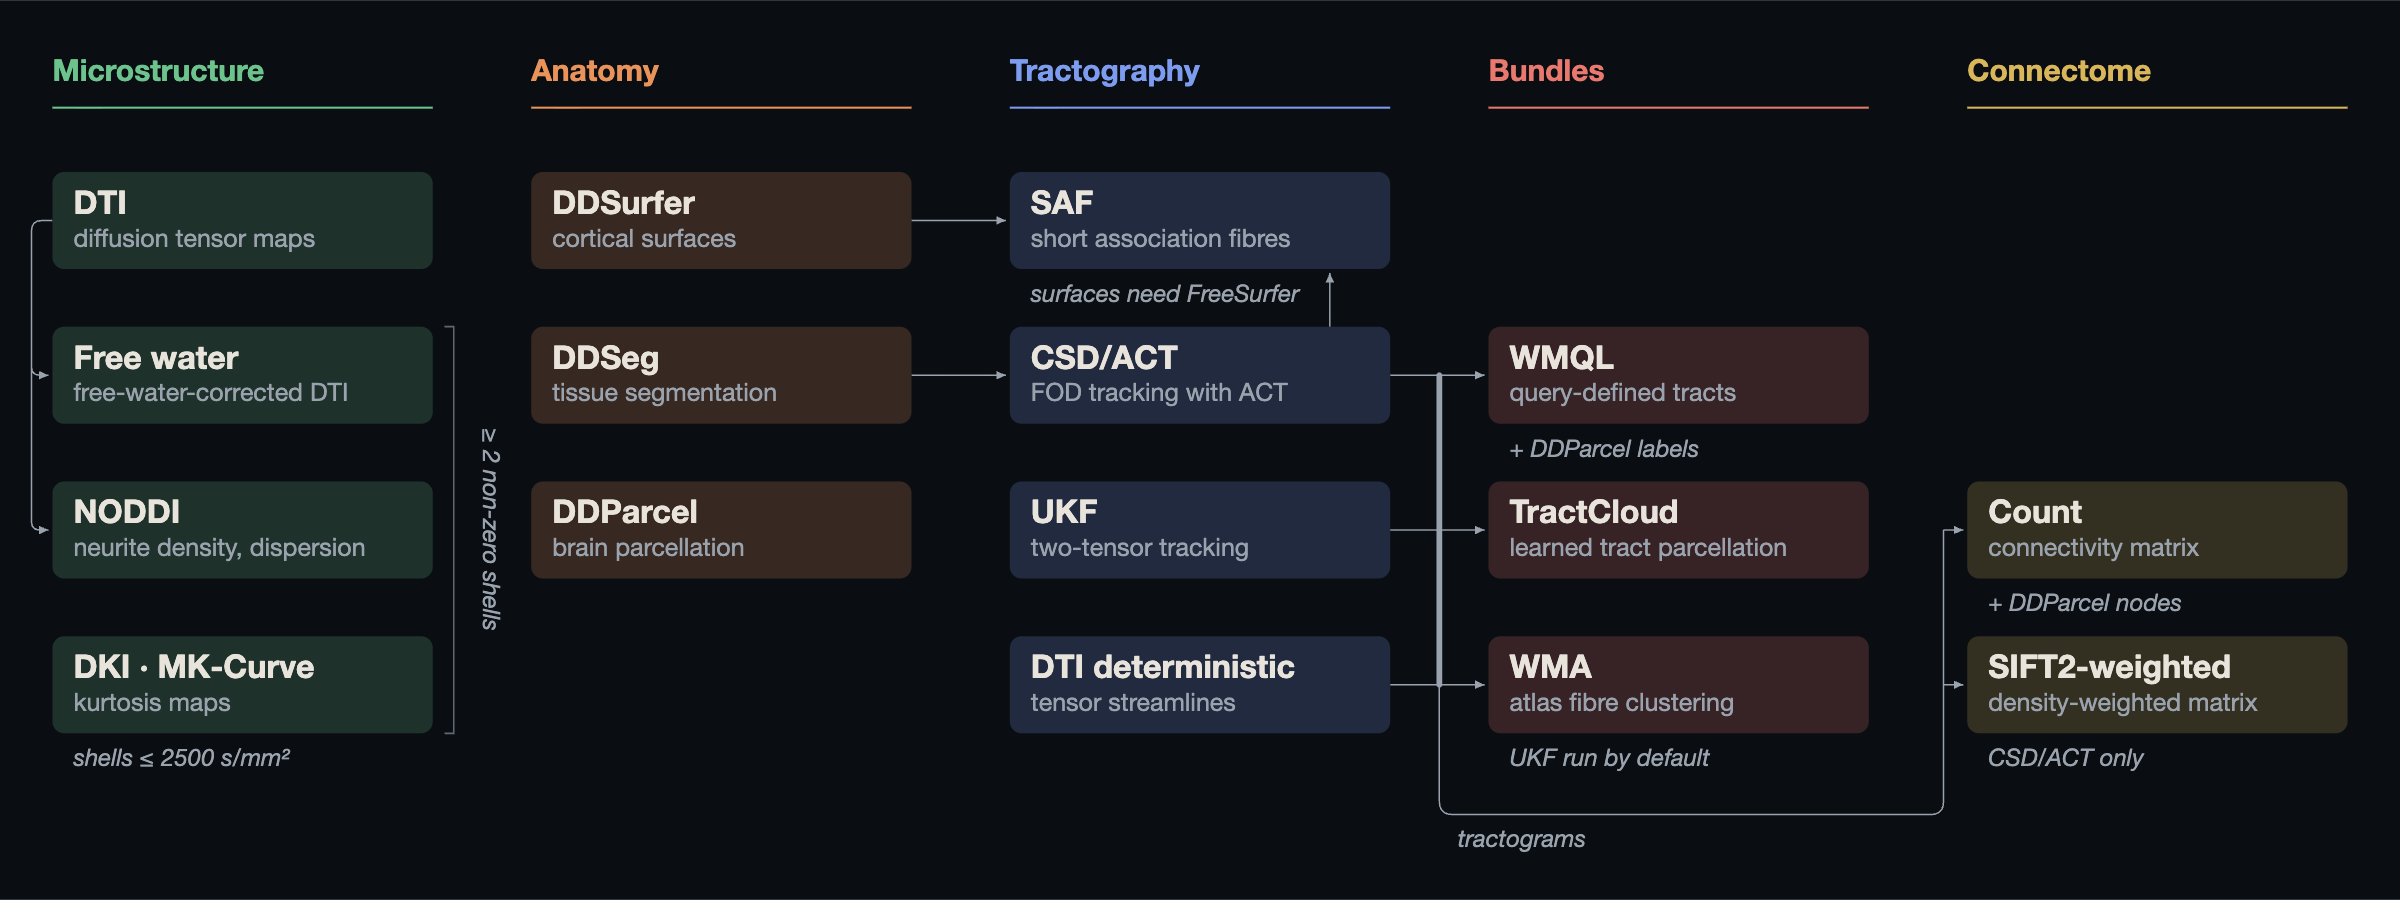
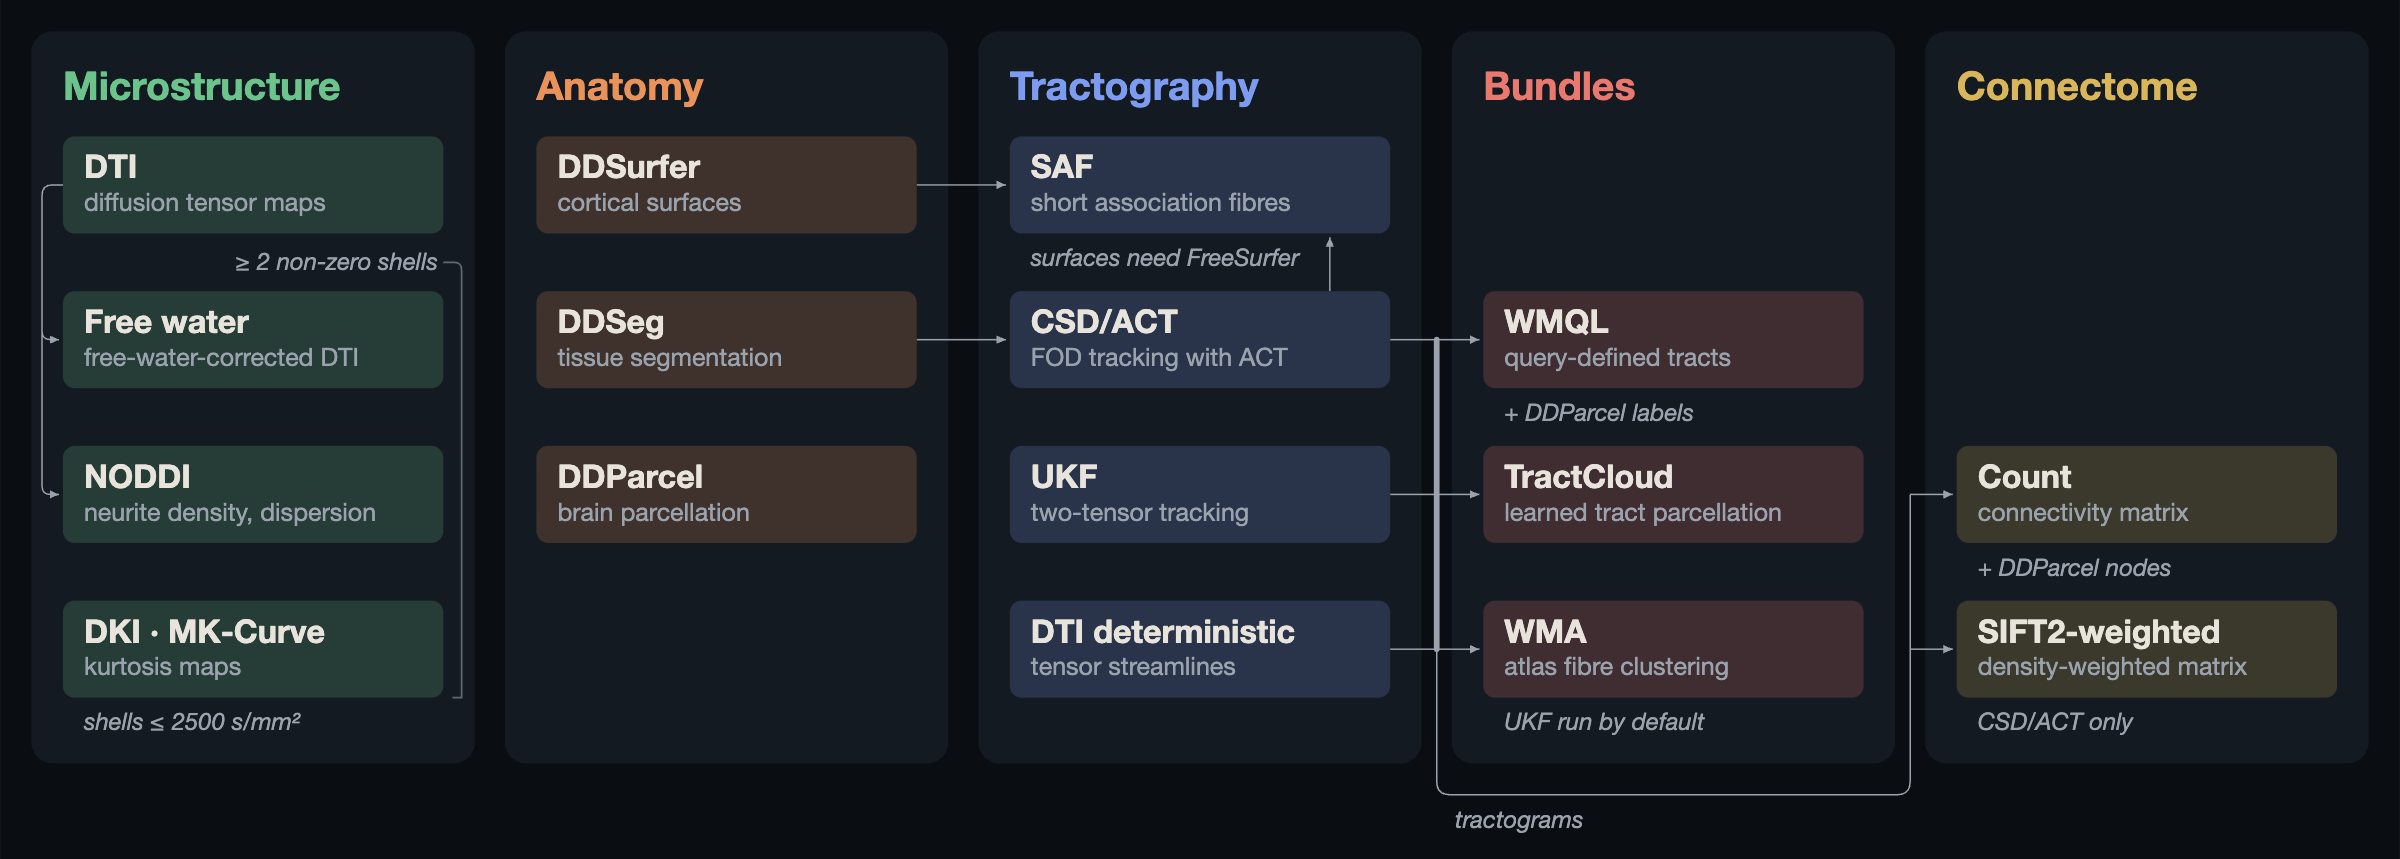
Figures: product map and run flow on dark rounded panels
User request: the results figure's style (white page, dark rounded
panels without an edge, larger titles) for the product map and the run
flow. svgkit gains PANEL, TITLE_PT (8.5 pt, the results figure's title
size) and panel_svg(): the dark theme's text and stage colours inside
the panels, on a white page in print and on the site's background on
the website.

Product map: one panel per stage, its title in the stage colour; the
tractograms' bus and the connectomes' feed run on the page between the
panels; the shell bracket's label moves above free water.
Run flow: Entry points, Environment check, Workflow execution and
outputs/ each on a panel; the arrows and the Python API's path run on
the page; the scene-loading arrow runs above the panels.

The run-flow test now compares the output folders with the dark
theme's stage colours, as they sit on a dark panel in both themes.
The site's product map is re-rendered (2400 x 859).

diff --git a/docs/site/index.html b/docs/site/index.html
@@ -374,7 +374,7 @@
     <h2>Which route when.</h2>
     <figure class="panel shot fig">
       <a href="assets/img/fig-product-map.png" target="_blank" rel="noopener" aria-label="Open the full-size product map">
-        <img src="assets/img/fig-product-map.png" width="2400" height="900" loading="lazy" decoding="async" alt="Product map: the methods in five columns (microstructure, anatomy, tractography, bundles, connectome), each with what it makes, and arrows for the inputs each one reads.">
+        <img src="assets/img/fig-product-map.png" width="2400" height="859" loading="lazy" decoding="async" alt="Product map: the methods in five columns (microstructure, anatomy, tractography, bundles, connectome), each with what it makes, and arrows for the inputs each one reads.">
       </a>
       <figcaption>What each method makes and what it reads. Free water, NODDI and DKI need at least two non-zero shells; DKI counts only shells up to 2500 s/mm².</figcaption>
     </figure>
